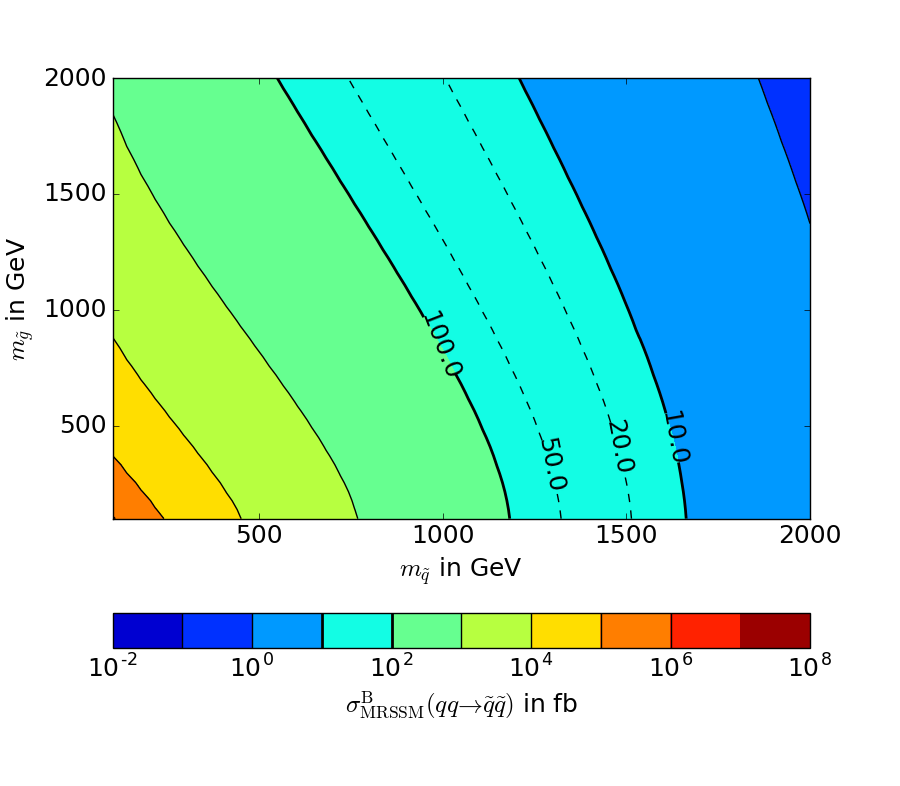
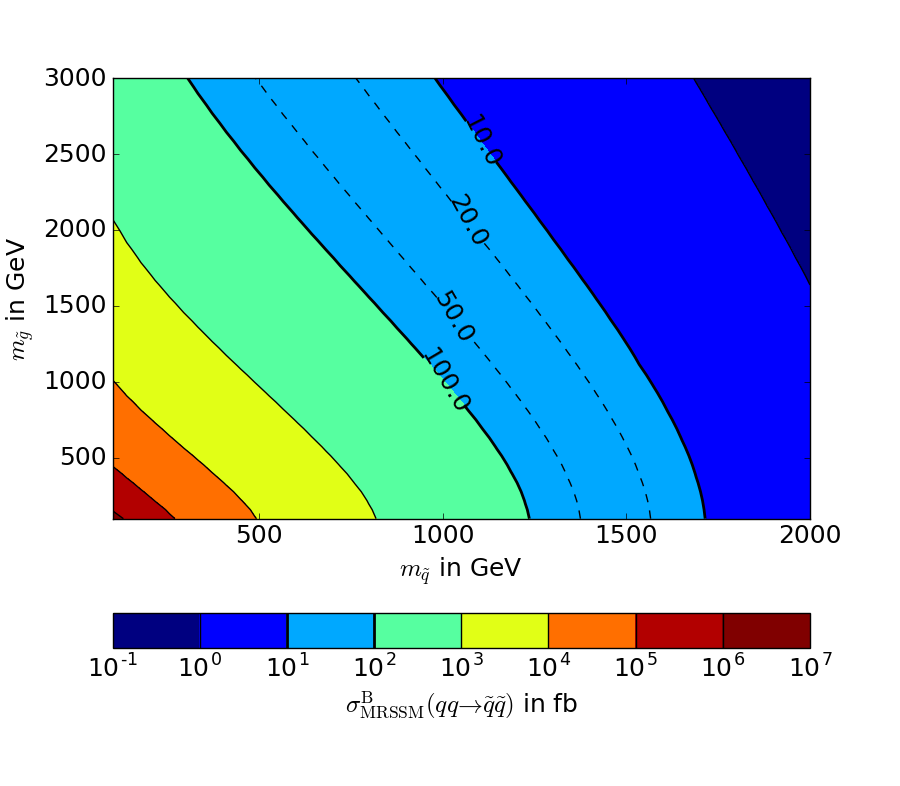
improved squark contour plot in MRSSM

diff --git a/figures/Contour_Plots/MRSSM_TreeLevel_qq_sqsq.py b/figures/Contour_Plots/MRSSM_TreeLevel_qq_sqsq.py
@@ -21,12 +21,12 @@ def contourdata():
     """
     
     """
-    mass = np.linspace(100, 2000, num=N)
-    mass = np.linspace(100, 2000, num=N)
+    mass_sq = np.linspace(100, 2000, num=N)
+    mass_glu = np.linspace(100, 3000, num=N)
     # note reverse ordering for yi and xi because of the way   
     # shape works in numpy                                                  
-    sigma = nans((len(mass),len(mass)))  
-    myfile = open('MRSSM_3_qq_sqsq.txt', 'r')     
+    sigma = nans((len(mass_sq),len(mass_glu)))  
+    myfile = open('MRSSM_3_qq_sqLsqR.txt', 'r')     
     i = 0
     for line in myfile:
         data = line.split()
@@ -35,6 +35,7 @@ def contourdata():
         i += 1   
     myfile.close()
     
+    v = 10**np.linspace(-1, 7, 9, endpoint=True)
     fig = plt.figure(1,figsize=(9, 8)) 
     ax1 = plt.axes()
     font_size = 18
@@ -42,8 +43,8 @@ def contourdata():
     plt.ylabel(r"$m_{\tilde{g}}$ in GeV", size = font_size)
     plt.xticks(fontsize = font_size)
     plt.yticks(fontsize = font_size)
-    cf=ax1.contourf(mass, mass, sigma, norm = LogNorm())
-    levels1 = [0.1, 1, 10**3, 10**4, 10**5, 10**6]
+    cf=ax1.contourf(mass_sq, mass_glu, sigma, v, norm = LogNorm(), vmin=1, vmax =10**6)
+    levels1 = [1, 10**3, 10**4, 10**5, 10**6]
     cl1 = plt.contour(cf, levels=levels1,
                   colors='k',
                   linewidths=(1,),
@@ -59,9 +60,12 @@ def contourdata():
                   linestyles='dashed',
                   linewidths=(1,),
                   hold='on')
-    plt.clabel(cl2, fmt='%2.1f', colors='k', fontsize = font_size)
-    plt.clabel(cl3, fmt='%2.1f', colors='k', fontsize = font_size)
-    cbar = fig.colorbar(cf, orientation='horizontal')
+    manual_locations2 = [(1000.0, 2500.0), (1000.0, 1000.0)]              
+    manual_locations3 = [(1000.0, 2000.0), (1000.0, 1400.0)]
+    plt.clabel(cl2, fmt='%2.1f', inline=1, colors='k', fontsize = font_size, manual=manual_locations2)
+    plt.clabel(cl3, fmt='%2.1f', inline=1, colors='k', fontsize = font_size, manual=manual_locations3)
+    
+    cbar = fig.colorbar(cf, ticks=v, orientation='horizontal')
     cbar.ax.set_xlabel(r'$\sigma^{\mathrm{B}}_{\mathrm{MRSSM}}(qq \to \tilde{q}\tilde{q})$ in fb', size = font_size)
     cbar.ax.tick_params(labelsize=font_size)
     cbar.add_lines(cl1)
